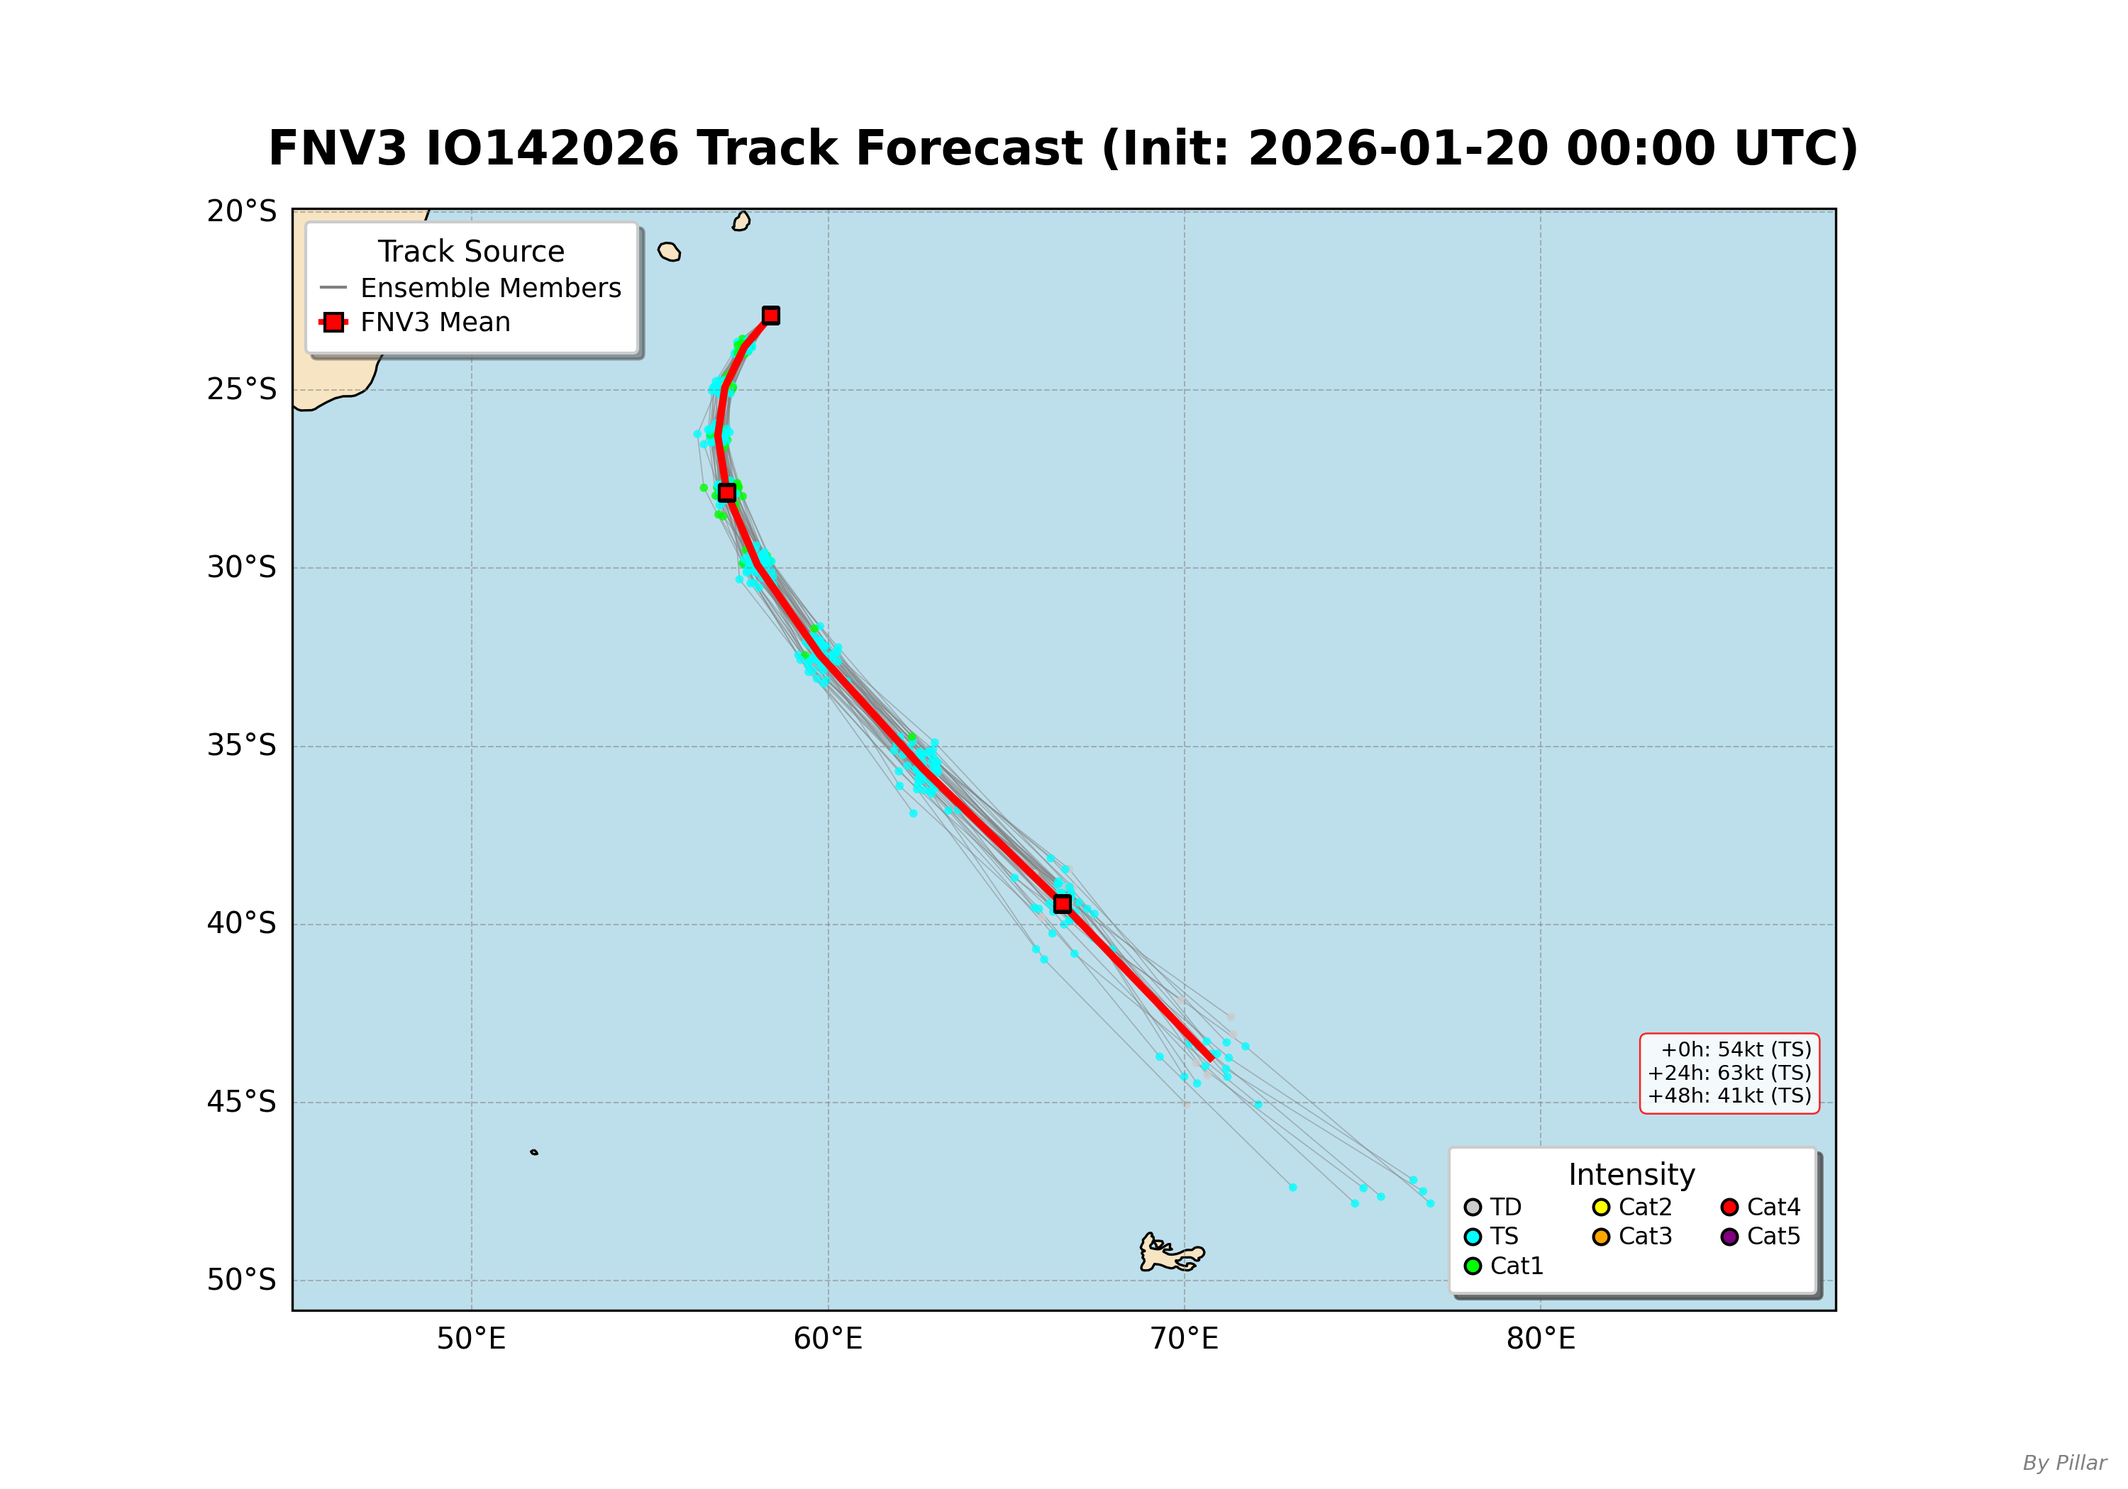
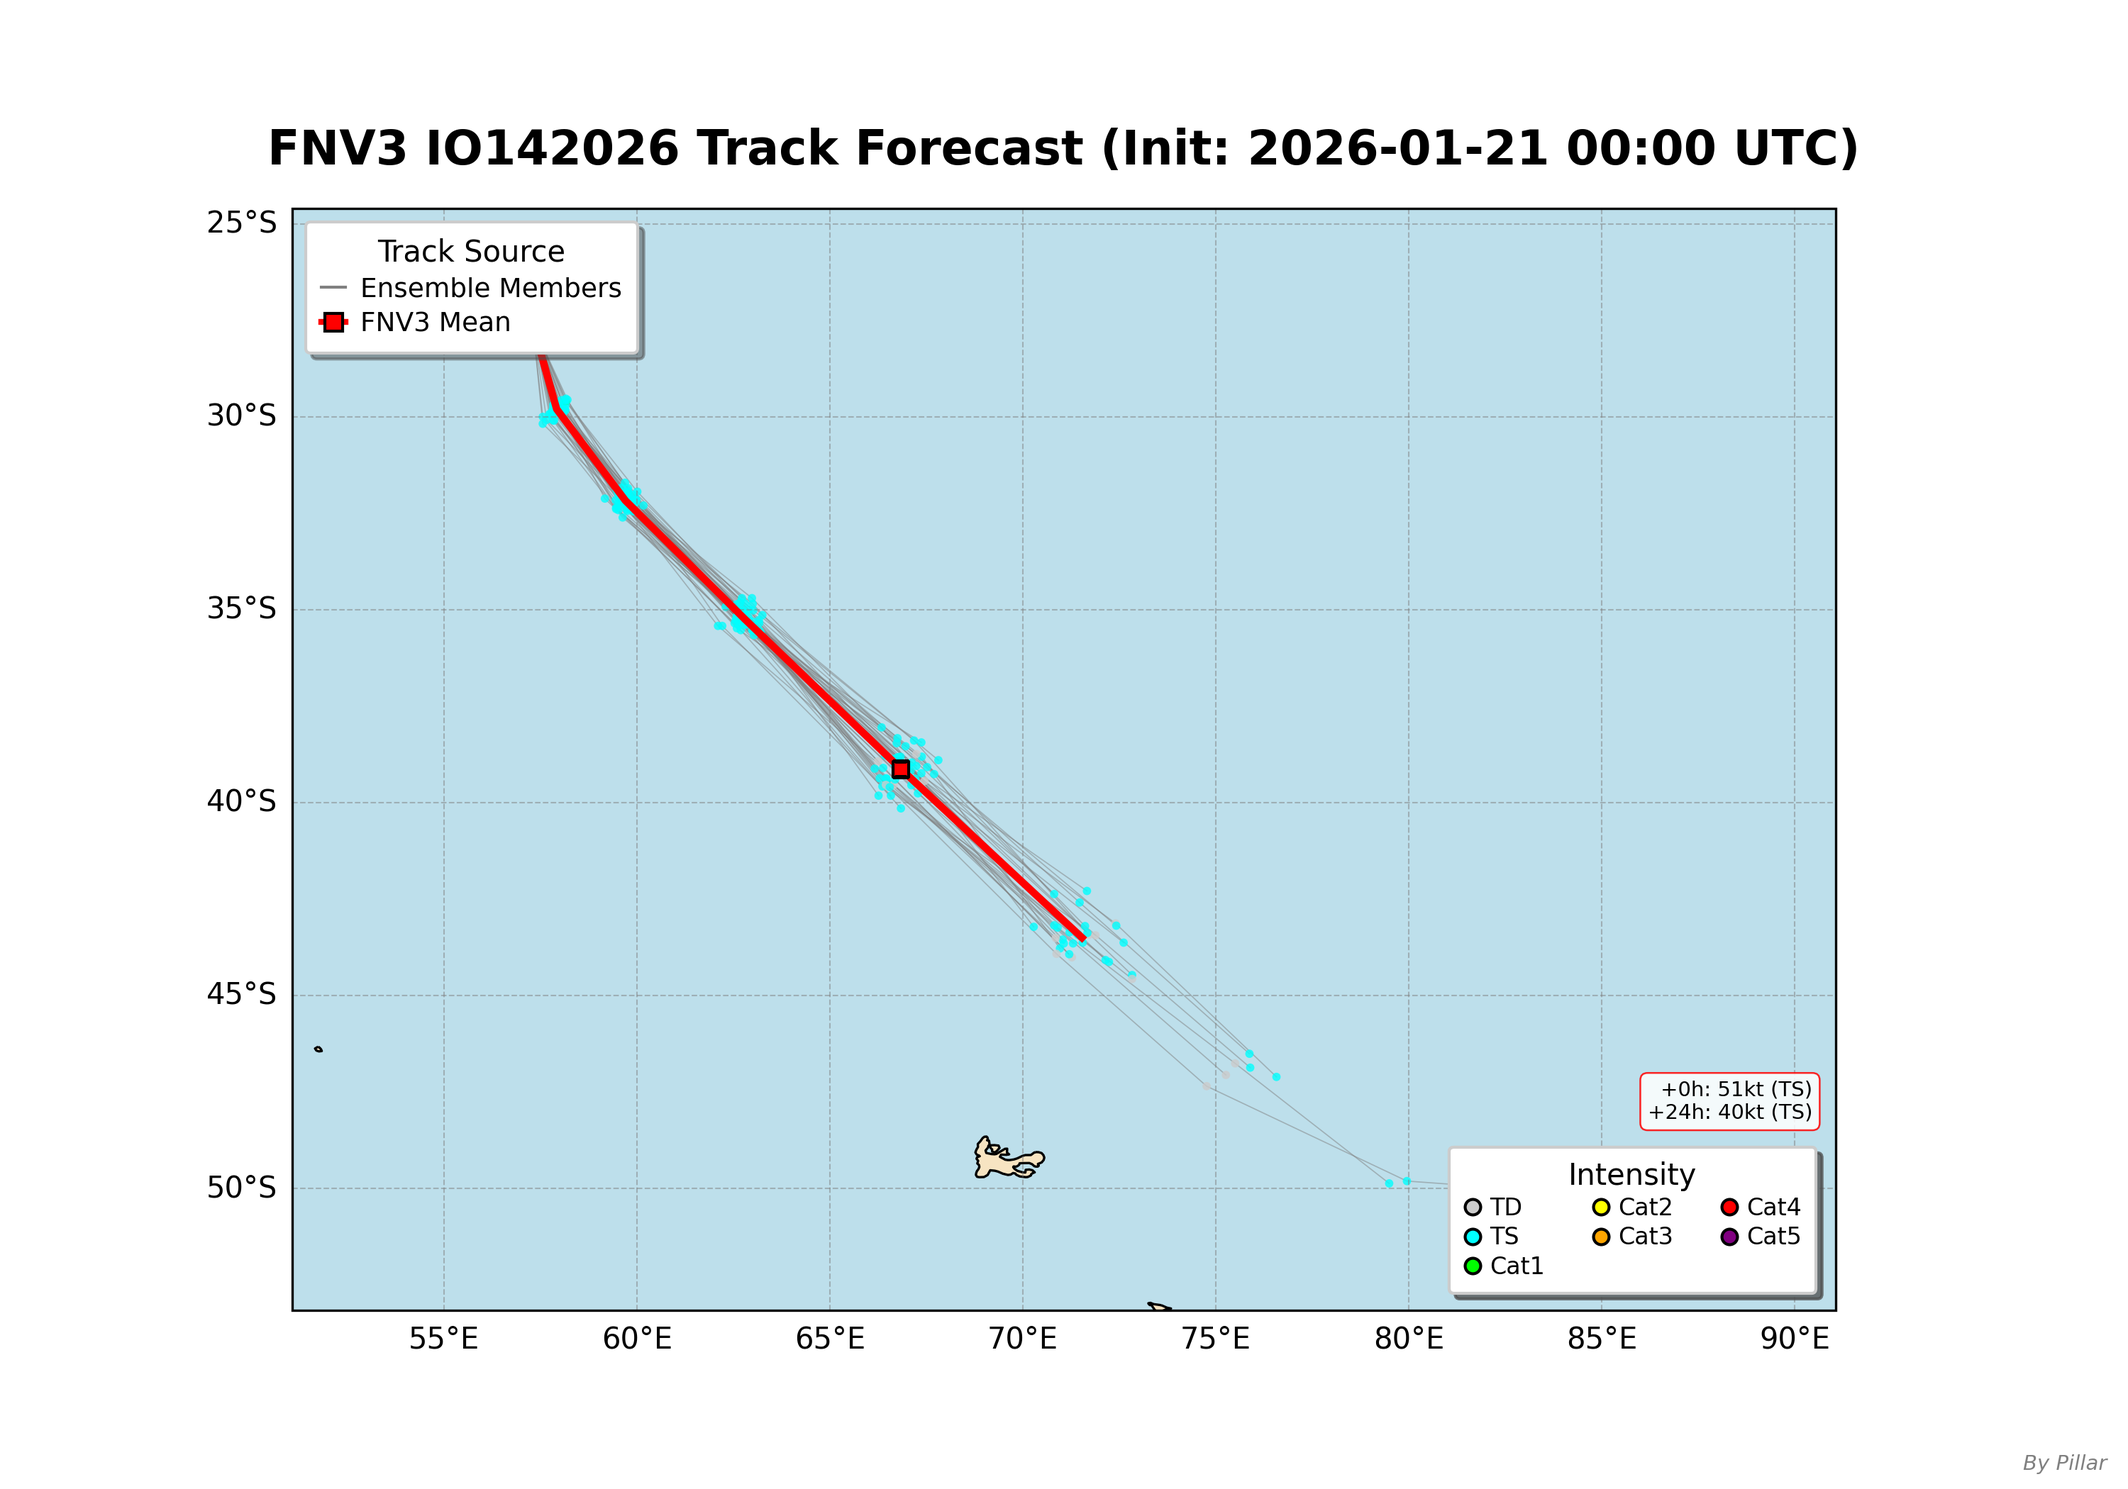
Add files via upload

diff --git a/index.html b/index.html
@@ -3,7 +3,7 @@
 <head>
     <meta charset="UTF-8">
     <meta name="viewport" content="width=device-width, initial-scale=1.0">
-    <title>Pillar's Tropical Cyclone Forecast | IO142026 / WP012026</title>
+    <title>Pillar's Tropical Cyclone Forecast | IO142026 / IO152026 / SH162026</title>
     <style>
         * {
             margin: 0;
@@ -689,7 +689,7 @@
                     <div class="subtitle">Real-time FNV3 Ensemble Forecast System</div>
                 </div>
                 <div class="update-badge">
-                    ⏰ Updated: 2026-01-20 15:13:54
+                    ⏰ Updated: 2026-01-21 17:15:30
                 </div>
             </div>
         </header>
@@ -708,15 +708,15 @@
                 <div class="info-grid">
                     <div class="info-item">
                         <div class="info-label">🛰 Current Time</div>
-                        <div class="info-value">200000 Z</div>
+                        <div class="info-value">210000 Z</div>
                     </div>
                     <div class="info-item">
                         <div class="info-label">📍 Current Position</div>
-                        <div class="info-value">23.5°S, 58.0°E</div>
+                        <div class="info-value">28.7°S, 58.0°E</div>
                     </div>
                     <div class="info-item">
                         <div class="info-label">💨 Maximum Wind</div>
-                        <div class="info-value">55 kt</div>
+                        <div class="info-value">50 kt</div>
                     </div>
                     <div class="info-item">
                         <div class="info-label">🔥 Intensity (Saffir-Simpson)</div>
@@ -727,11 +727,11 @@
                     </div>
                     <div class="info-item mobile-wind-radii" style="grid-column: span 2;">
                         <div class="info-label">🌀 34 kt Wind Radii</div>
-                        <div class="info-value">NE: 080 / SE: 110 / SW: 075 / NW: 050 nm</div>
+                        <div class="info-value">NE: 100 / SE: 100 / SW: 050 / NW: 050 nm</div>
                     </div>
                     <div class="info-item mobile-wind-radii" style="grid-column: span 2;">
                         <div class="info-label">🌀 50 kt Wind Radii</div>
-                        <div class="info-value">NE: 030 / SE: 055 / SW: 045 / NW: 000 nm</div>
+                        <div class="info-value">NE: 040 / SE: 040 / SW: 000 / NW: 000 nm</div>
                     </div>
                 </div>
 
@@ -786,9 +786,9 @@
                         <button class="control-btn" onclick="pauseAnimation('IO142026')">⏸ Pause</button>
                         <button class="control-btn" onclick="resetAnimation('IO142026')">⟲ Reset</button>
                         <div class="progress-bar-container">
-                            <input type="range" id="progress-IO142026" class="progress-slider" min="0" max="10" value="0" 
+                            <input type="range" id="progress-IO142026" class="progress-slider" min="0" max="8" value="0" 
                                    oninput="seekFrame('IO142026', this.value)">
-                            <span id="frame-counter-IO142026" class="frame-counter">1/11</span>
+                            <span id="frame-counter-IO142026" class="frame-counter">1/9</span>
                         </div>
                     </div>
                 </div>
@@ -821,23 +821,23 @@
             <div class="storm-card">
                 <div class="storm-header">
                     <div class="storm-title">
-                        NOKAEN <span class="alert-badge">LIVE</span>
+                        EWETSE <span class="alert-badge">LIVE</span>
                     </div>
-                    <div class="storm-id">WP012026</div>
+                    <div class="storm-id">IO152026</div>
                 </div>
 
                 <div class="info-grid">
                     <div class="info-item">
                         <div class="info-label">🛰 Current Time</div>
-                        <div class="info-value">200000 Z</div>
+                        <div class="info-value">210600 Z</div>
                     </div>
                     <div class="info-item">
                         <div class="info-label">📍 Current Position</div>
-                        <div class="info-value">17.3°N, 129.5°E</div>
+                        <div class="info-value">24.0°S, 43.7°E</div>
                     </div>
                     <div class="info-item">
                         <div class="info-label">💨 Maximum Wind</div>
-                        <div class="info-value">35 kt</div>
+                        <div class="info-value">45 kt</div>
                     </div>
                     <div class="info-item">
                         <div class="info-label">🔥 Intensity (Saffir-Simpson)</div>
@@ -848,7 +848,7 @@
                     </div>
                     <div class="info-item mobile-wind-radii" style="grid-column: span 2;">
                         <div class="info-label">🌀 34 kt Wind Radii</div>
-                        <div class="info-value">NE: 000 / SE: 000 / SW: 000 / NW: 100 nm</div>
+                        <div class="info-value">NE: 050 / SE: 080 / SW: 100 / NW: 080 nm</div>
                     </div>
                 </div>
 
@@ -893,19 +893,19 @@
             <div class="animation-container">
                 <div class="animation-title">🎬 Track Evolution Animation</div>
                 <div class="animation-player">
-                    <img id="animation-frame-WP012026" 
-                         src="animation_frames_WP012026/frame_0000.png" 
+                    <img id="animation-frame-IO152026" 
+                         src="animation_frames_IO152026/frame_0000.png" 
                          alt="Animation" 
                          class="animation-frame"
-                         data-frames-dir="animation_frames_WP012026">
+                         data-frames-dir="animation_frames_IO152026">
                     <div class="player-controls">
-                        <button class="control-btn" onclick="playAnimation('WP012026')">▶ Play</button>
-                        <button class="control-btn" onclick="pauseAnimation('WP012026')">⏸ Pause</button>
-                        <button class="control-btn" onclick="resetAnimation('WP012026')">⟲ Reset</button>
+                        <button class="control-btn" onclick="playAnimation('IO152026')">▶ Play</button>
+                        <button class="control-btn" onclick="pauseAnimation('IO152026')">⏸ Pause</button>
+                        <button class="control-btn" onclick="resetAnimation('IO152026')">⟲ Reset</button>
                         <div class="progress-bar-container">
-                            <input type="range" id="progress-WP012026" class="progress-slider" min="0" max="6" value="0" 
-                                   oninput="seekFrame('WP012026', this.value)">
-                            <span id="frame-counter-WP012026" class="frame-counter">1/7</span>
+                            <input type="range" id="progress-IO152026" class="progress-slider" min="0" max="3" value="0" 
+                                   oninput="seekFrame('IO152026', this.value)">
+                            <span id="frame-counter-IO152026" class="frame-counter">1/4</span>
                         </div>
                     </div>
                 </div>
@@ -917,7 +917,7 @@
             <!-- Map Container -->
             <div class="map-container">
                 <div class="map-title">📍 FNV3 Track Forecast Map</div>
-                <img src="WP012026_Forecast_Map.png" alt="WP012026 Forecast Map" class="map-image">
+                <img src="IO152026_Forecast_Map.png" alt="IO152026 Forecast Map" class="map-image">
                 <div style="margin-top: 15px; color: #666; font-size: 0.95em; line-height: 1.6;">
                     <strong>Note:</strong> Gray lines represent individual ensemble members (spaghetti plot). 
                     Red line shows the ensemble mean track with 24-hour position markers. 
@@ -928,7 +928,124 @@
             <!-- JTWC Forecast Map Container -->
             <div class="map-container jtwc-forecast-map" style="margin-top: 30px;">
                 <div class="map-title">🌐 JTWC Official Forecast</div>
-                <img src="jtwc_WP012026.gif" alt="JTWC Forecast" class="map-image" onerror="this.parentElement.style.display='none'">
+                <img src="jtwc_IO152026.gif" alt="JTWC Forecast" class="map-image" onerror="this.parentElement.style.display='none'">
+                <div class="map-description" style="margin-top: 15px; color: #666; font-size: 0.95em; line-height: 1.6;">
+                    <strong>Source:</strong> Joint Typhoon Warning Center (JTWC) - U.S. Navy & Air Force
+                </div>
+            </div>
+        
+
+            <div class="storm-card">
+                <div class="storm-header">
+                    <div class="storm-title">
+                        SIXTEEN <span class="alert-badge">LIVE</span>
+                    </div>
+                    <div class="storm-id">SH162026</div>
+                </div>
+
+                <div class="info-grid">
+                    <div class="info-item">
+                        <div class="info-label">🛰 Current Time</div>
+                        <div class="info-value">210600 Z</div>
+                    </div>
+                    <div class="info-item">
+                        <div class="info-label">📍 Current Position</div>
+                        <div class="info-value">19.8°S, 162.0°E</div>
+                    </div>
+                    <div class="info-item">
+                        <div class="info-label">💨 Maximum Wind</div>
+                        <div class="info-value">40 kt</div>
+                    </div>
+                    <div class="info-item">
+                        <div class="info-label">🔥 Intensity (Saffir-Simpson)</div>
+                        <div class="info-value intensity-value">
+                            <span class="intensity-dot" style="background: #00FFFF;"></span>
+                            <span class="legend-label">TS</span>
+                        </div>
+                    </div>
+                    <div class="info-item mobile-wind-radii" style="grid-column: span 2;">
+                        <div class="info-label">🌀 34 kt Wind Radii</div>
+                        <div class="info-value">NE: 060 / SE: 030 / SW: 000 / NW: 060 nm</div>
+                    </div>
+                </div>
+
+                <!-- Legend -->
+                <div class="legend">
+                    <div class="legend-title">🎨 Intensity Scale (Saffir-Simpson)</div>
+                    <div class="legend-items">
+                        <div class="legend-item">
+                            <div class="legend-color" style="background: #CCCCCC;"></div>
+                            <div class="legend-label">TD (< 34 kt)</div>
+                        </div>
+                        <div class="legend-item">
+                            <div class="legend-color" style="background: #00FFFF;"></div>
+                            <div class="legend-label">TS (34-63 kt)</div>
+                        </div>
+                        <div class="legend-item">
+                            <div class="legend-color" style="background: #00FF00;"></div>
+                            <div class="legend-label">Cat 1 (64-82 kt)</div>
+                        </div>
+                        <div class="legend-item">
+                            <div class="legend-color" style="background: #FFFF00;"></div>
+                            <div class="legend-label">Cat 2 (83-95 kt)</div>
+                        </div>
+                        <div class="legend-item">
+                            <div class="legend-color" style="background: #FFA500;"></div>
+                            <div class="legend-label">Cat 3 (96-112 kt)</div>
+                        </div>
+                        <div class="legend-item">
+                            <div class="legend-color" style="background: #FF0000;"></div>
+                            <div class="legend-label">Cat 4 (113-136 kt)</div>
+                        </div>
+                        <div class="legend-item">
+                            <div class="legend-color" style="background: #800080;"></div>
+                            <div class="legend-label">Cat 5 (≥ 137 kt)</div>
+                        </div>
+                    </div>
+                </div>
+            </div>
+
+            
+            <!-- Animation Player -->
+            <div class="animation-container">
+                <div class="animation-title">🎬 Track Evolution Animation</div>
+                <div class="animation-player">
+                    <img id="animation-frame-SH162026" 
+                         src="animation_frames_SH162026/frame_0000.png" 
+                         alt="Animation" 
+                         class="animation-frame"
+                         data-frames-dir="animation_frames_SH162026">
+                    <div class="player-controls">
+                        <button class="control-btn" onclick="playAnimation('SH162026')">▶ Play</button>
+                        <button class="control-btn" onclick="pauseAnimation('SH162026')">⏸ Pause</button>
+                        <button class="control-btn" onclick="resetAnimation('SH162026')">⟲ Reset</button>
+                        <div class="progress-bar-container">
+                            <input type="range" id="progress-SH162026" class="progress-slider" min="0" max="11" value="0" 
+                                   oninput="seekFrame('SH162026', this.value)">
+                            <span id="frame-counter-SH162026" class="frame-counter">1/12</span>
+                        </div>
+                    </div>
+                </div>
+                <div style="margin-top: 10px; color: #666; font-size: 0.9em;">
+                    <strong>Controls:</strong> Play/Pause the animation or use the slider to manually seek through frames.
+                </div>
+            </div>
+
+            <!-- Map Container -->
+            <div class="map-container">
+                <div class="map-title">📍 FNV3 Track Forecast Map</div>
+                <img src="SH162026_Forecast_Map.png" alt="SH162026 Forecast Map" class="map-image">
+                <div style="margin-top: 15px; color: #666; font-size: 0.95em; line-height: 1.6;">
+                    <strong>Note:</strong> Gray lines represent individual ensemble members (spaghetti plot). 
+                    Red line shows the ensemble mean track with 24-hour position markers. 
+                    Colored dots indicate intensity at 6-hour intervals.
+                </div>
+            </div>
+
+            <!-- JTWC Forecast Map Container -->
+            <div class="map-container jtwc-forecast-map" style="margin-top: 30px;">
+                <div class="map-title">🌐 JTWC Official Forecast</div>
+                <img src="jtwc_SH162026.gif" alt="JTWC Forecast" class="map-image" onerror="this.parentElement.style.display='none'">
                 <div class="map-description" style="margin-top: 15px; color: #666; font-size: 0.95em; line-height: 1.6;">
                     <strong>Source:</strong> Joint Typhoon Warning Center (JTWC) - U.S. Navy & Air Force
                 </div>
